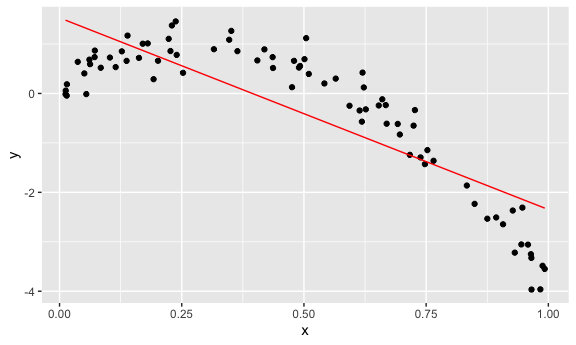
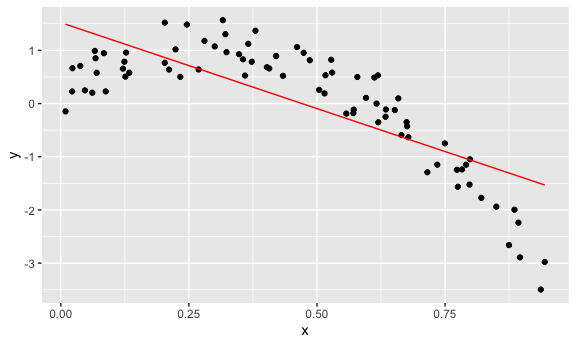
cross validation using modelr

diff --git a/cross_validation.md b/cross_validation.md
@@ -145,16 +145,142 @@ Look at prediction accuracy.
 rmse(linear_mod, test_df)
 ```
 
-    ## [1] 0.7279099
+    ## [1] 0.9161202
 
 ``` r
 rmse(smooth_mod, test_df)
 ```
 
-    ## [1] 0.3168397
+    ## [1] 0.3575102
 
 ``` r
 rmse(wiggly_mod, test_df)
 ```
 
-    ## [1] 0.4324704
+    ## [1] 0.3894079
+
+## cross validation using `modelr`
+
+``` r
+cv_df = 
+  crossv_mc(nonlin_df, 100)
+```
+
+what is happening here …
+
+``` r
+cv_df %>% 
+  pull(train) %>% 
+  .[[1]] %>% 
+  as_tibble()
+```
+
+    ## # A tibble: 79 × 3
+    ##       id      x       y
+    ##    <int>  <dbl>   <dbl>
+    ##  1     1 0.321   1.30  
+    ##  2     4 0.613  -0.283 
+    ##  3     5 0.572  -0.115 
+    ##  4     7 0.203   1.52  
+    ##  5     8 0.280   1.18  
+    ##  6    10 0.875  -2.66  
+    ##  7    11 0.0840  0.947 
+    ##  8    12 0.486   0.815 
+    ##  9    13 0.580   0.0553
+    ## 10    14 0.665  -0.592 
+    ## # … with 69 more rows
+
+``` r
+cv_df %>% 
+  pull(test) %>% 
+  .[[1]] %>% 
+  as_tibble()
+```
+
+    ## # A tibble: 21 × 3
+    ##       id      x      y
+    ##    <int>  <dbl>  <dbl>
+    ##  1     2 0.0380  0.707
+    ##  2     3 0.652  -0.122
+    ##  3     6 0.446   0.610
+    ##  4     9 0.420   0.893
+    ##  5    16 0.269   0.640
+    ##  6    25 0.678  -0.633
+    ##  7    30 0.612   0.489
+    ##  8    36 0.642   0.893
+    ##  9    39 0.0470  0.248
+    ## 10    43 0.360   0.526
+    ## # … with 11 more rows
+
+``` r
+cv_df = 
+  cv_df %>% 
+  mutate(
+    train = map(train, as_tibble),
+    test = map(test,as_tibble)
+  )
+```
+
+Let’s try to fit models and get RMSEs for them.
+
+Map across “train” column and fit y against x with linear models into
+each elements in train column. use .x as a placeholder of train.
+
+``` r
+cv_df = 
+  cv_df %>% 
+  mutate(
+    linear_mod = map(.x = train, ~lm( y ~ x, data = .x)),
+    smooth_mod = map(.x = train, ~gam( y ~ s(x), data = .x)),
+    wiggly_mod = map(.x = train, ~gam( y ~ s(x, k = 30), sp = 10e-6, data = .x))
+  ) %>% 
+  mutate(
+    rmse_linear = map2_dbl(.x = linear_mod, .y = test, ~rmse(model = .x, data = .y)),
+    rmse_smooth = map2_dbl(.x = smooth_mod, .y = test, ~rmse(model = .x, data = .y)),
+    rmse_wiggly = map2_dbl(.x = wiggly_mod, .y = test, ~rmse(model = .x, data = .y))
+  )
+```
+
+what dod these results say about model choices?
+
+``` r
+cv_df %>% 
+  select(starts_with("rmse")) %>% 
+  pivot_longer(
+    everything(),
+    names_to = "model",
+    values_to = "rmse",
+    names_prefix = "rmse_"
+  ) %>% 
+  ggplot(aes(x = model, y = rmse)) +
+  geom_violin()
+```
+
+<img src="cross_validation_files/figure-gfm/unnamed-chunk-12-1.png" width="90%" />
+
+This is the distributions across 100 training and testing splits fitting
+in the linear, smooth, wiggly models. From this plot we can see that the
+linear model makes the worst prediction. The smooth is doing better than
+the wiggly.
+
+Compute averages …
+
+``` r
+cv_df %>% 
+  select(starts_with("rmse")) %>% 
+  pivot_longer(
+    everything(),
+    names_to = "model",
+    values_to = "rmse",
+    names_prefix = "rmse_"
+  ) %>% 
+  group_by(model) %>% 
+  summarize((avg_smse = mean(rmse)))
+```
+
+    ## # A tibble: 3 × 2
+    ##   model  `(avg_smse = mean(rmse))`
+    ##   <chr>                      <dbl>
+    ## 1 linear                     0.764
+    ## 2 smooth                     0.329
+    ## 3 wiggly                     0.385
